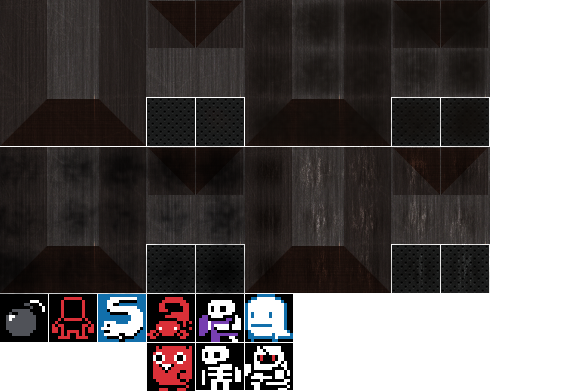
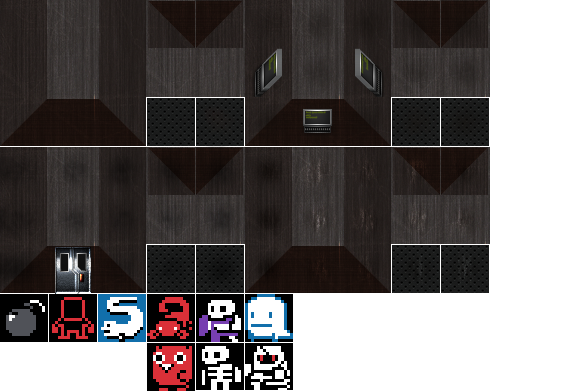
Added base MolotovEnemy and updated tilemap

diff --git a/PattyPetitGiant/PattyPetitGiant/PattyPetitGiant/MolotovEnemy.cs b/PattyPetitGiant/PattyPetitGiant/PattyPetitGiant/MolotovEnemy.cs
@@ -1,0 +1,31 @@
+using System;
+using System.Collections.Generic;
+using System.Text;
+using Microsoft.Xna.Framework;
+using Microsoft.Xna.Framework.Graphics;
+
+namespace PattyPetitGiant
+{
+    class MolotovEnemy : Enemy
+    {
+        public override void update(GameTime currentTime)
+        {
+            base.update(currentTime);
+        }
+
+        public override void draw(SpriteBatch sb)
+        {
+            base.draw(sb);
+        }
+
+        public override void knockBack(Vector2 direction, float magnitude, int damage)
+        {
+            base.knockBack(direction, magnitude, damage);
+        }
+
+        public override void spinerender(Spine.SkeletonRenderer renderer)
+        {
+            base.spinerender(renderer);
+        }
+    }
+}
